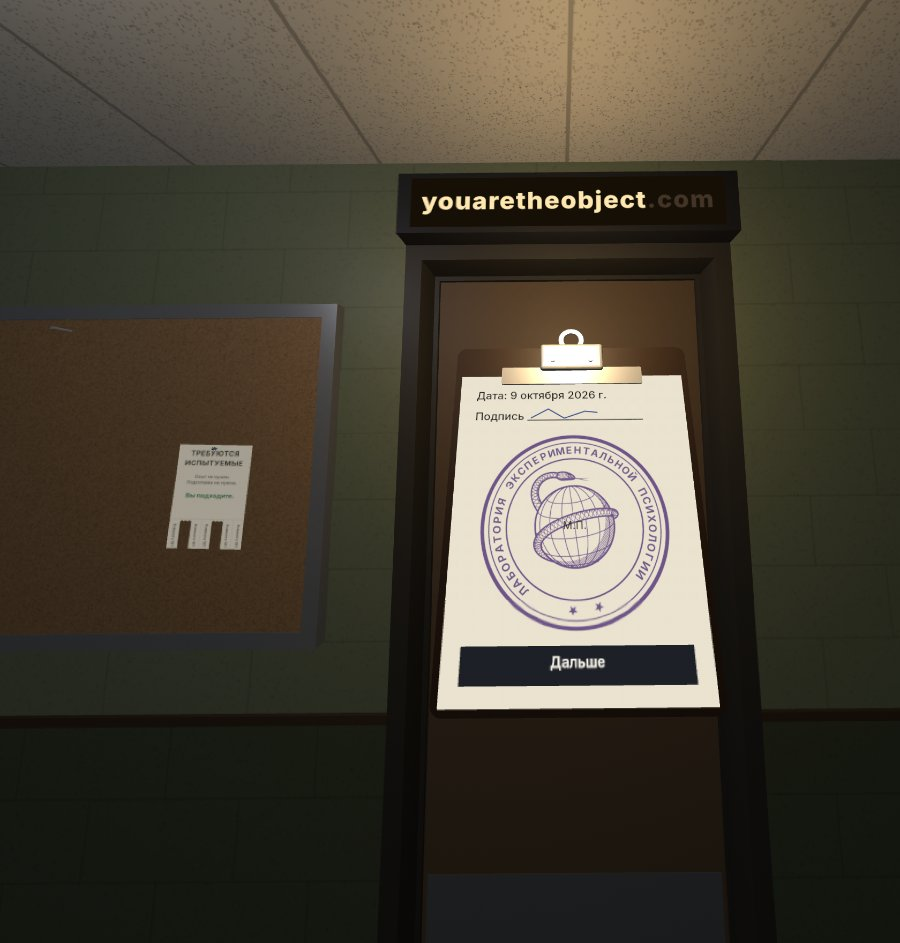
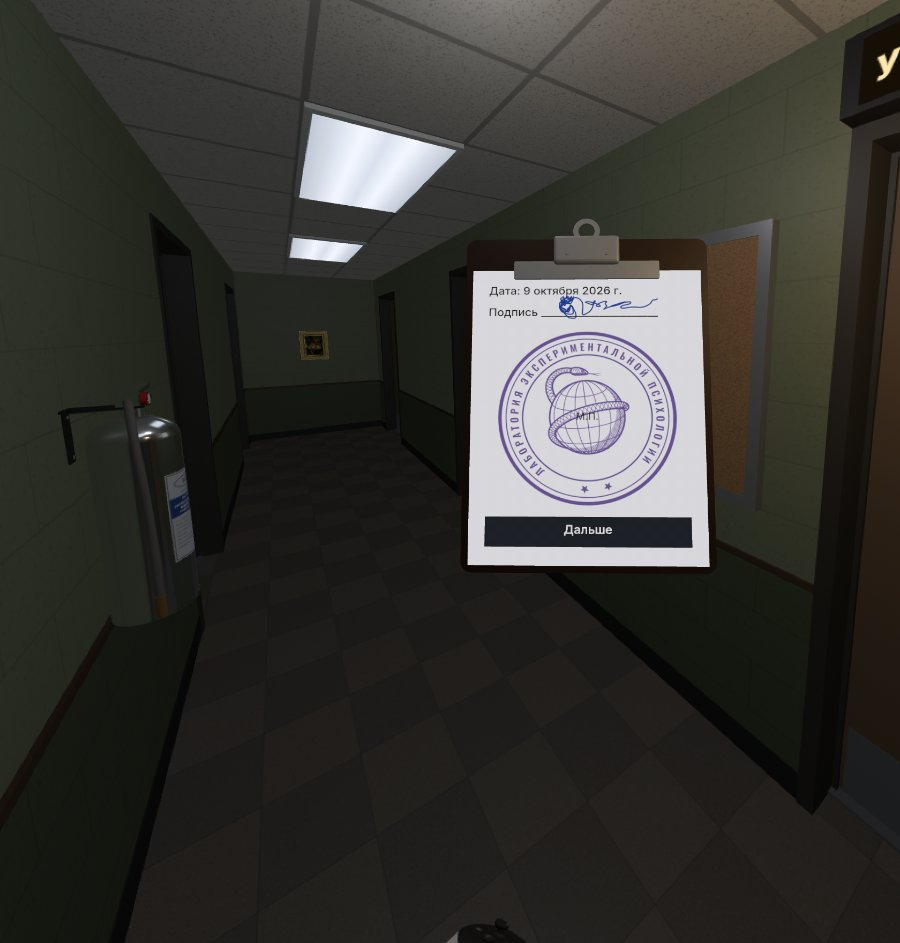
The seal is done with the owner's yes in his headset; the approved shots take the new seal (drawn, and on the signed form in his headset) and the end walls' Vegetable Gardener from his headset; the board turns to the extinguisher, from the 19 photos of a 1970 WS-900 he brought

diff --git a/docs/board.md b/docs/board.md
@@ -3,7 +3,7 @@
 Мера прогресса одна: ты увидел и сказал «да». Каждый диалог начинается со строки в «Показах» (что ты сегодня увидишь) и кончается показом тебе — в очках или картинкой. Два диалога подряд без твоего «да» — только видимая работа, побочная стоит. Это единственное место, где записана очередь работы; она идёт по твоим решениям. Твои решения: docs/owner-decisions.md. Большой план — архив и стратегия: https://claude.ai/code/artifact/71113d16-57ad-42ce-9905-87ff87dfdbd7
 
 ## Сейчас
-- Сейчас: печать снята в твоих очках 9.10, ждёт «да»; номера дверей: размытие по краям выключено (с ним мутнели, без — «лучше»), кадры/с без него замерить в следующий заход. metavr пуст — после обновления приложения.
+- Сейчас: огнетушитель (4) по твоим 19 фото. Печать и номера дверей сделаны 9.10; кадры/с без размытия по краям — замерить в следующий заход. metavr пуст — после обновления приложения.
 
 ## Путь — ступени и проверка каждой
 1. Коридор готов — ты сказал «да» каждой вещи списка ниже.
@@ -21,8 +21,8 @@
 4. Огнетушитель: пройти весь по твоим 19 фото WS-900 1970 г. (docs/research/vr/07), верх особенно («нажимаешь на него… какое-то квадратное»; «везде много неточностей»; «это вообще декор. Однако надо нарисовать его нормально» 9.10)
 5. Отрывные полоски на объявлении
 6. Подписанный бланк висит на доске заполненным
-6а. Печать: каждую часть («у букв наклон кривой… неравномерно»; «отрисовку змеи… всю печать перепроверь» 9.10); ромбы и Oswald — твой выбор
-6б. Номера на дверях («то ли размытые… надо проверить» 9.10): размытие по краям выключено; ты: «лучше»
+6а. СДЕЛАНО 9.10: печать — Oswald, ровная змея, голова по Хиту («да»)
+6б. СДЕЛАНО 9.10: номера на дверях — размытие по краям выключено (ты: «лучше»)
 7. Тексты коридора: приветствие — серьёзное; мелкие сухие детали на бумаге — можно (юмор голосом — только в комнатах)
 
 Внутренняя работа, по очереди, каждая — до своей ступени:
@@ -46,4 +46,4 @@
 | 9.10 | варианты картин | «Садовник» на оба торца, один перевёрнут |
 | 9.10 | «Садовник» в музейной раме, в твоих очках (90 кадров/с, 34 вызова отрисовки) | да: «отлично получилось» |
 
-| 9.10 | печать (Oswald, новая змея) на бланке в твоих очках; номера дверей без размытия | номера: «лучше»; печать — ждёт |
+| 9.10 | печать (Oswald, новая змея) на бланке в твоих очках; номера дверей без размытия | да; номера «лучше» |
